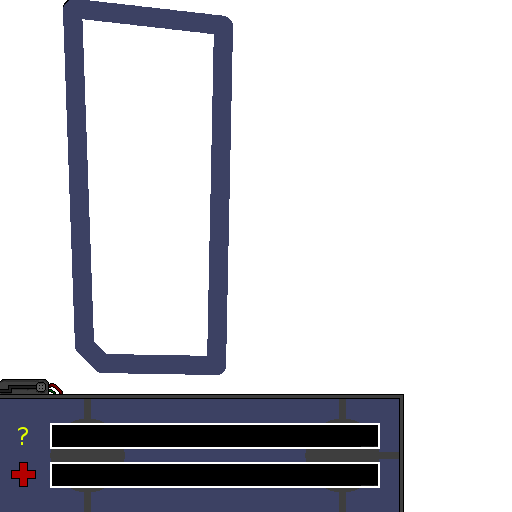
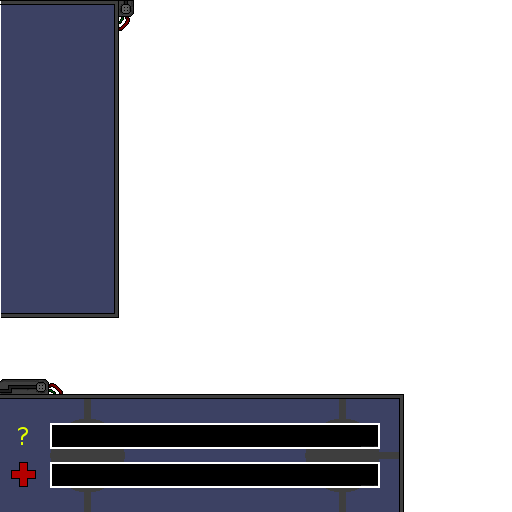
HUD-Textur für die ausgerüsteten Waffen

Changed region(s): [[0.0, 0.0, 0.4688, 0.75]]

diff --git a/src/de/_13ducks/spacebatz/client/graphics/controls/HudControl.java b/src/de/_13ducks/spacebatz/client/graphics/controls/HudControl.java
@@ -35,17 +35,33 @@ public class HudControl implements Control {
         glEnable(GL_TEXTURE_2D);
 
         hud1.bind();
+        
+        // HUD-Bild bei HP
         float width1 = (0.475f / 16.0f * 9.0f) * camera.getTilesX();
-        float height1 = 0.475f * camera.getTilesY();
+        float height1 = 0.475f * camera.getTilesY() * 0.262f;
         glBegin(GL_QUADS); // QUAD-Zeichenmodus aktivieren
         glTexCoord2f(0, 1);
         glVertex3f(0, 0, 0.0f);
         glTexCoord2f(1, 1);
         glVertex3f(width1, 0, 0.0f);
-        glTexCoord2f(1, 0);
+        glTexCoord2f(1, 0.738f);
         glVertex3f(width1, height1, 0.0f);
-        glTexCoord2f(0, 0);
+        glTexCoord2f(0, 0.738f);
         glVertex3f(0, height1, 0.0f);
+        glEnd(); // Zeichnen des QUADs fertig } }
+
+        // HUD-Bild bei Waffen
+        float height2 = 0.42f * camera.getTilesY();
+        float height3 = 0.77f * camera.getTilesY();
+        glBegin(GL_QUADS); // QUAD-Zeichenmodus aktivieren
+        glTexCoord2f(0, 0.738f);
+        glVertex3f(0, height2, 0.0f);
+        glTexCoord2f(1, 0.738f);
+        glVertex3f(width1, height2, 0.0f);
+        glTexCoord2f(1, 0.0f);
+        glVertex3f(width1, height3, 0.0f);
+        glTexCoord2f(0, 0.0f);
+        glVertex3f(0, height3, 0.0f);
         glEnd(); // Zeichnen des QUADs fertig } }
 
 
@@ -76,7 +92,7 @@ public class HudControl implements Control {
             Item item = GameClient.getEquippedItems().getEquipslots()[1][j];
 
             if (item != null) {
-                float x = 0.021f;
+                float x = 0.016f;
                 float y = 0.705f - 0.1f * j;
                 float width = 0.05f / 16.0f * 9.0f;
                 float height = 0.05f;
@@ -95,9 +111,9 @@ public class HudControl implements Control {
 
             glColor3f(0.0f, 0.0f, 0.0f);
 
-            float x1 = 0.019f * camera.getTilesX();
+            float x1 = 0.014f * camera.getTilesX();
             float y1 = (0.705f - 0.1f * j) * camera.getTilesY();
-            float x2 = (0.023f + 0.05f / 16.0f * 9.0f) * camera.getTilesX();
+            float x2 = (0.018f + 0.05f / 16.0f * 9.0f) * camera.getTilesX();
             float y2 = (0.7505f - 0.1f * j) * camera.getTilesY();
 
             glBegin(GL_LINE_LOOP);
@@ -125,10 +141,10 @@ public class HudControl implements Control {
 
                 // weißer Hintergrund
                 glColor3f(1.0f, 1.0f, 1.0f);
-                glRectf(0.01f * camera.getTilesX(), height * camera.getTilesY(), 0.06f * camera.getTilesX(), (height + 0.01f) * camera.getTilesY());
+                glRectf(0.005f * camera.getTilesX(), height * camera.getTilesY(), 0.055f * camera.getTilesX(), (height + 0.01f) * camera.getTilesY());
                 // roter HP-Balken, Länge anhängig von HP
                 glColor3f(0.7f, 0.0f, 0.0f);
-                glRectf(0.012f * camera.getTilesX(), (height + 0.002f) * camera.getTilesY(), (0.012f + 0.046f * overheatpermax) * camera.getTilesX(), (height + 0.008f) * camera.getTilesY());
+                glRectf(0.007f * camera.getTilesX(), (height + 0.002f) * camera.getTilesY(), (0.007f + 0.046f * overheatpermax) * camera.getTilesX(), (height + 0.008f) * camera.getTilesY());
             }
             glColor3f(1f, 1f, 1f);
         }
